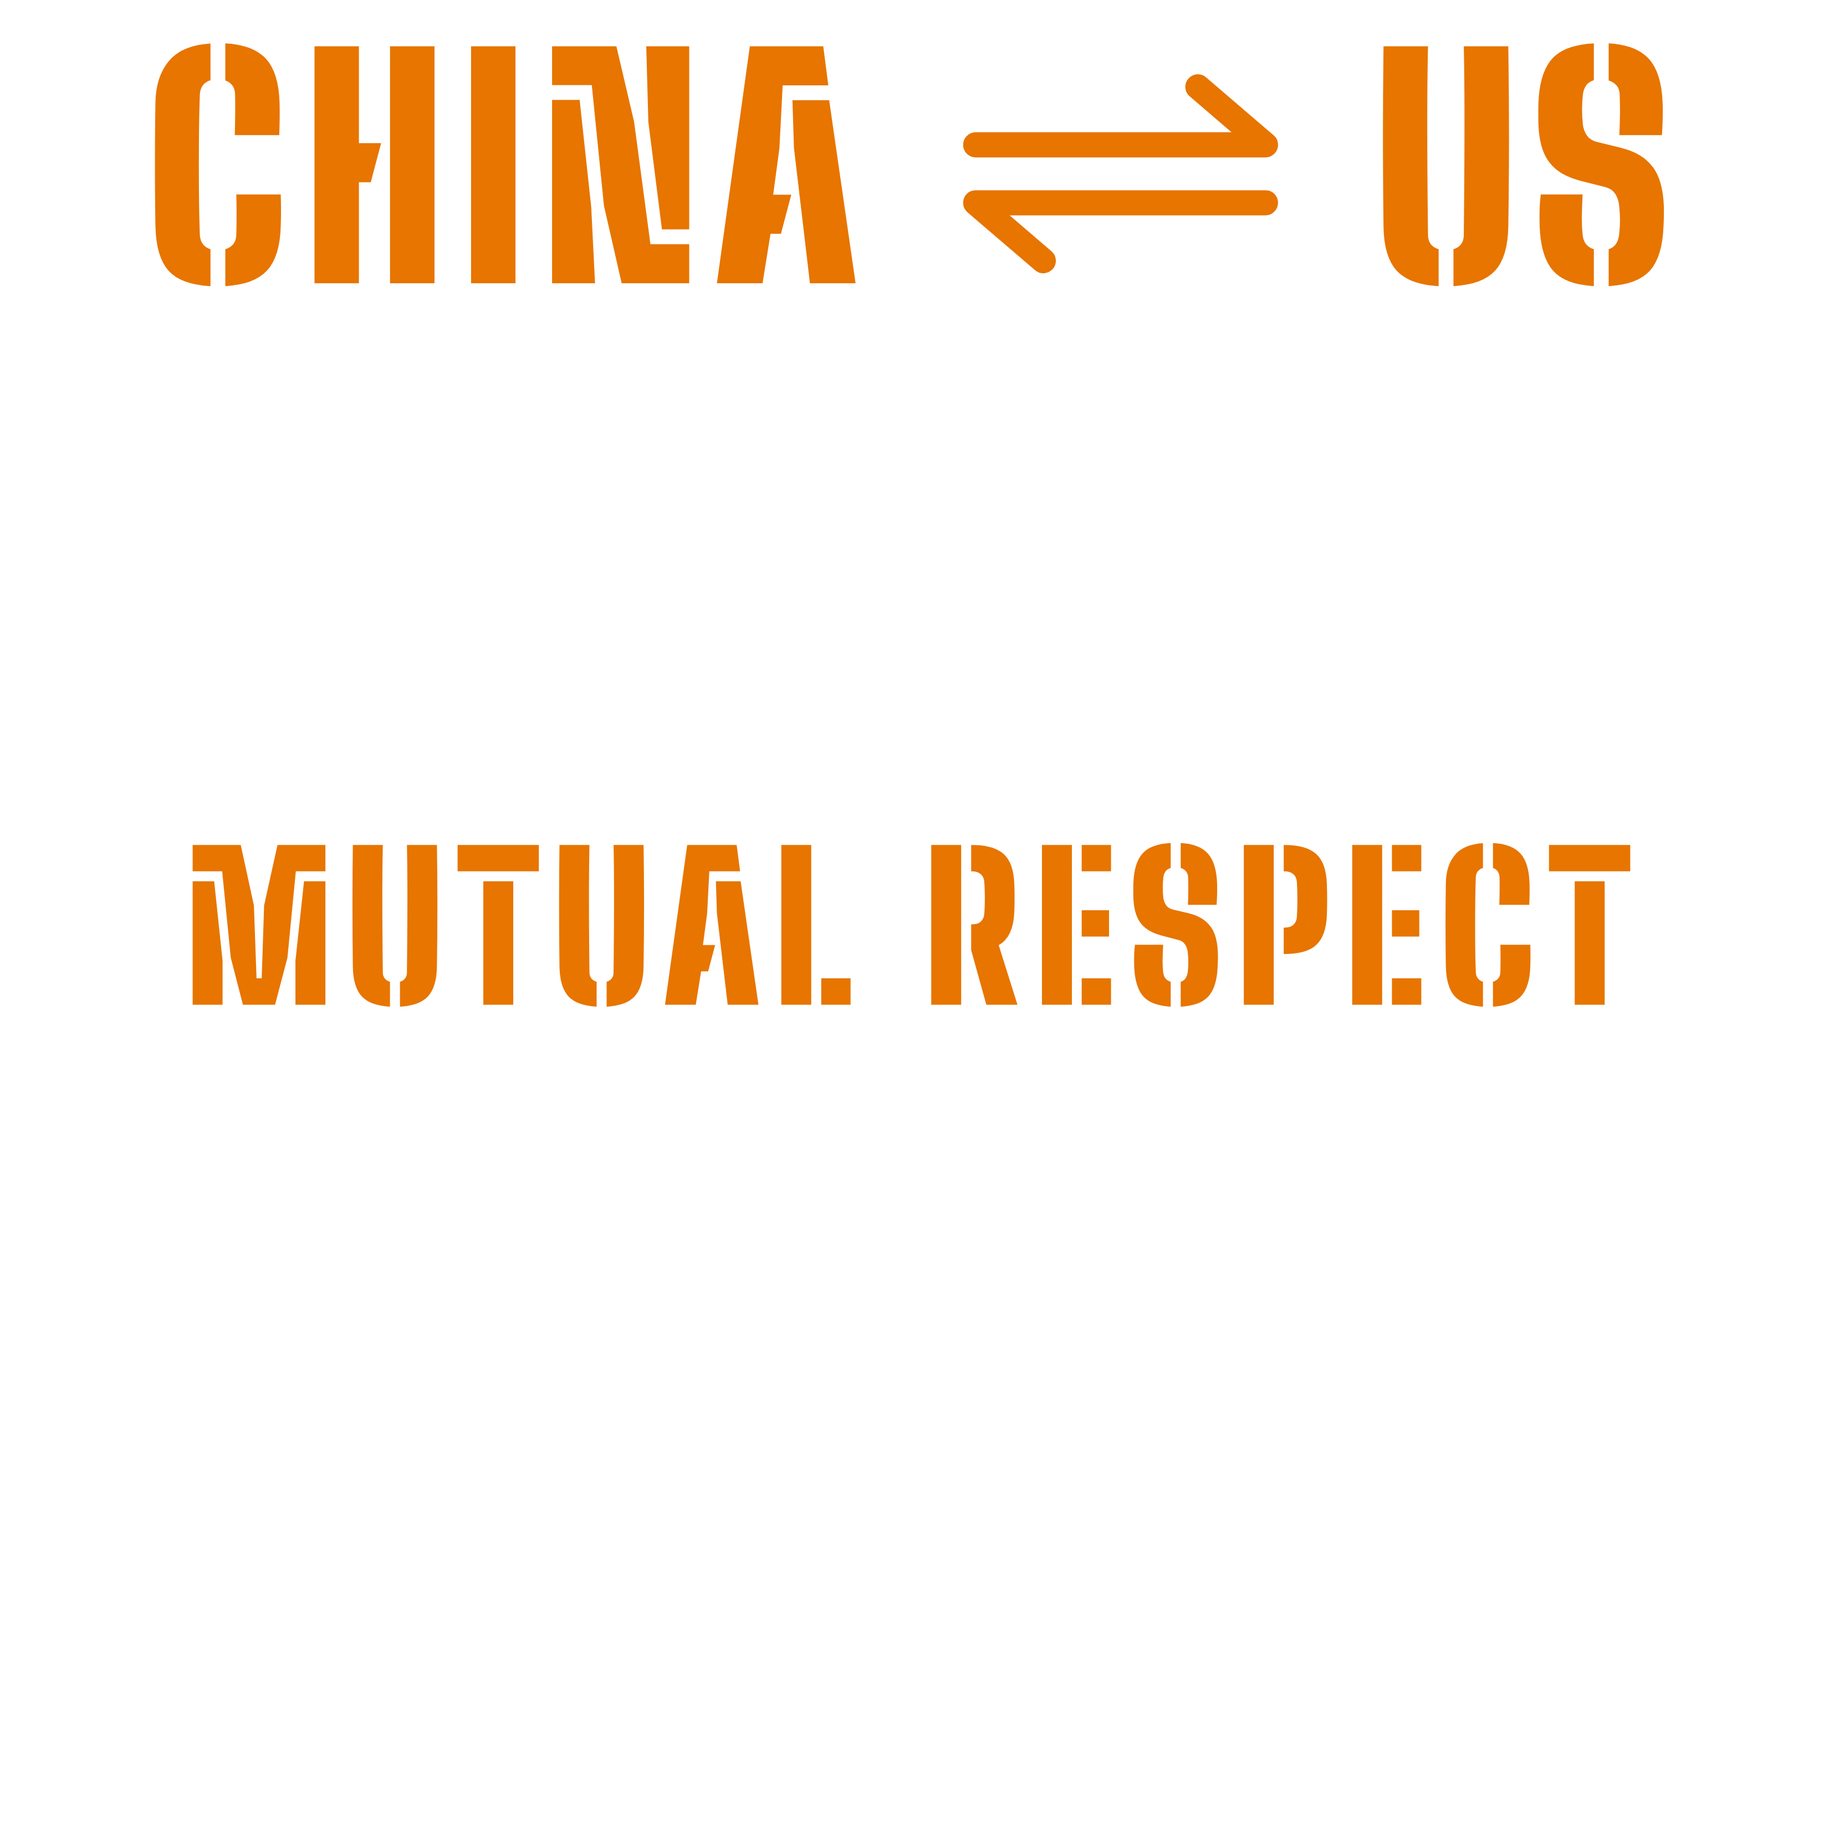
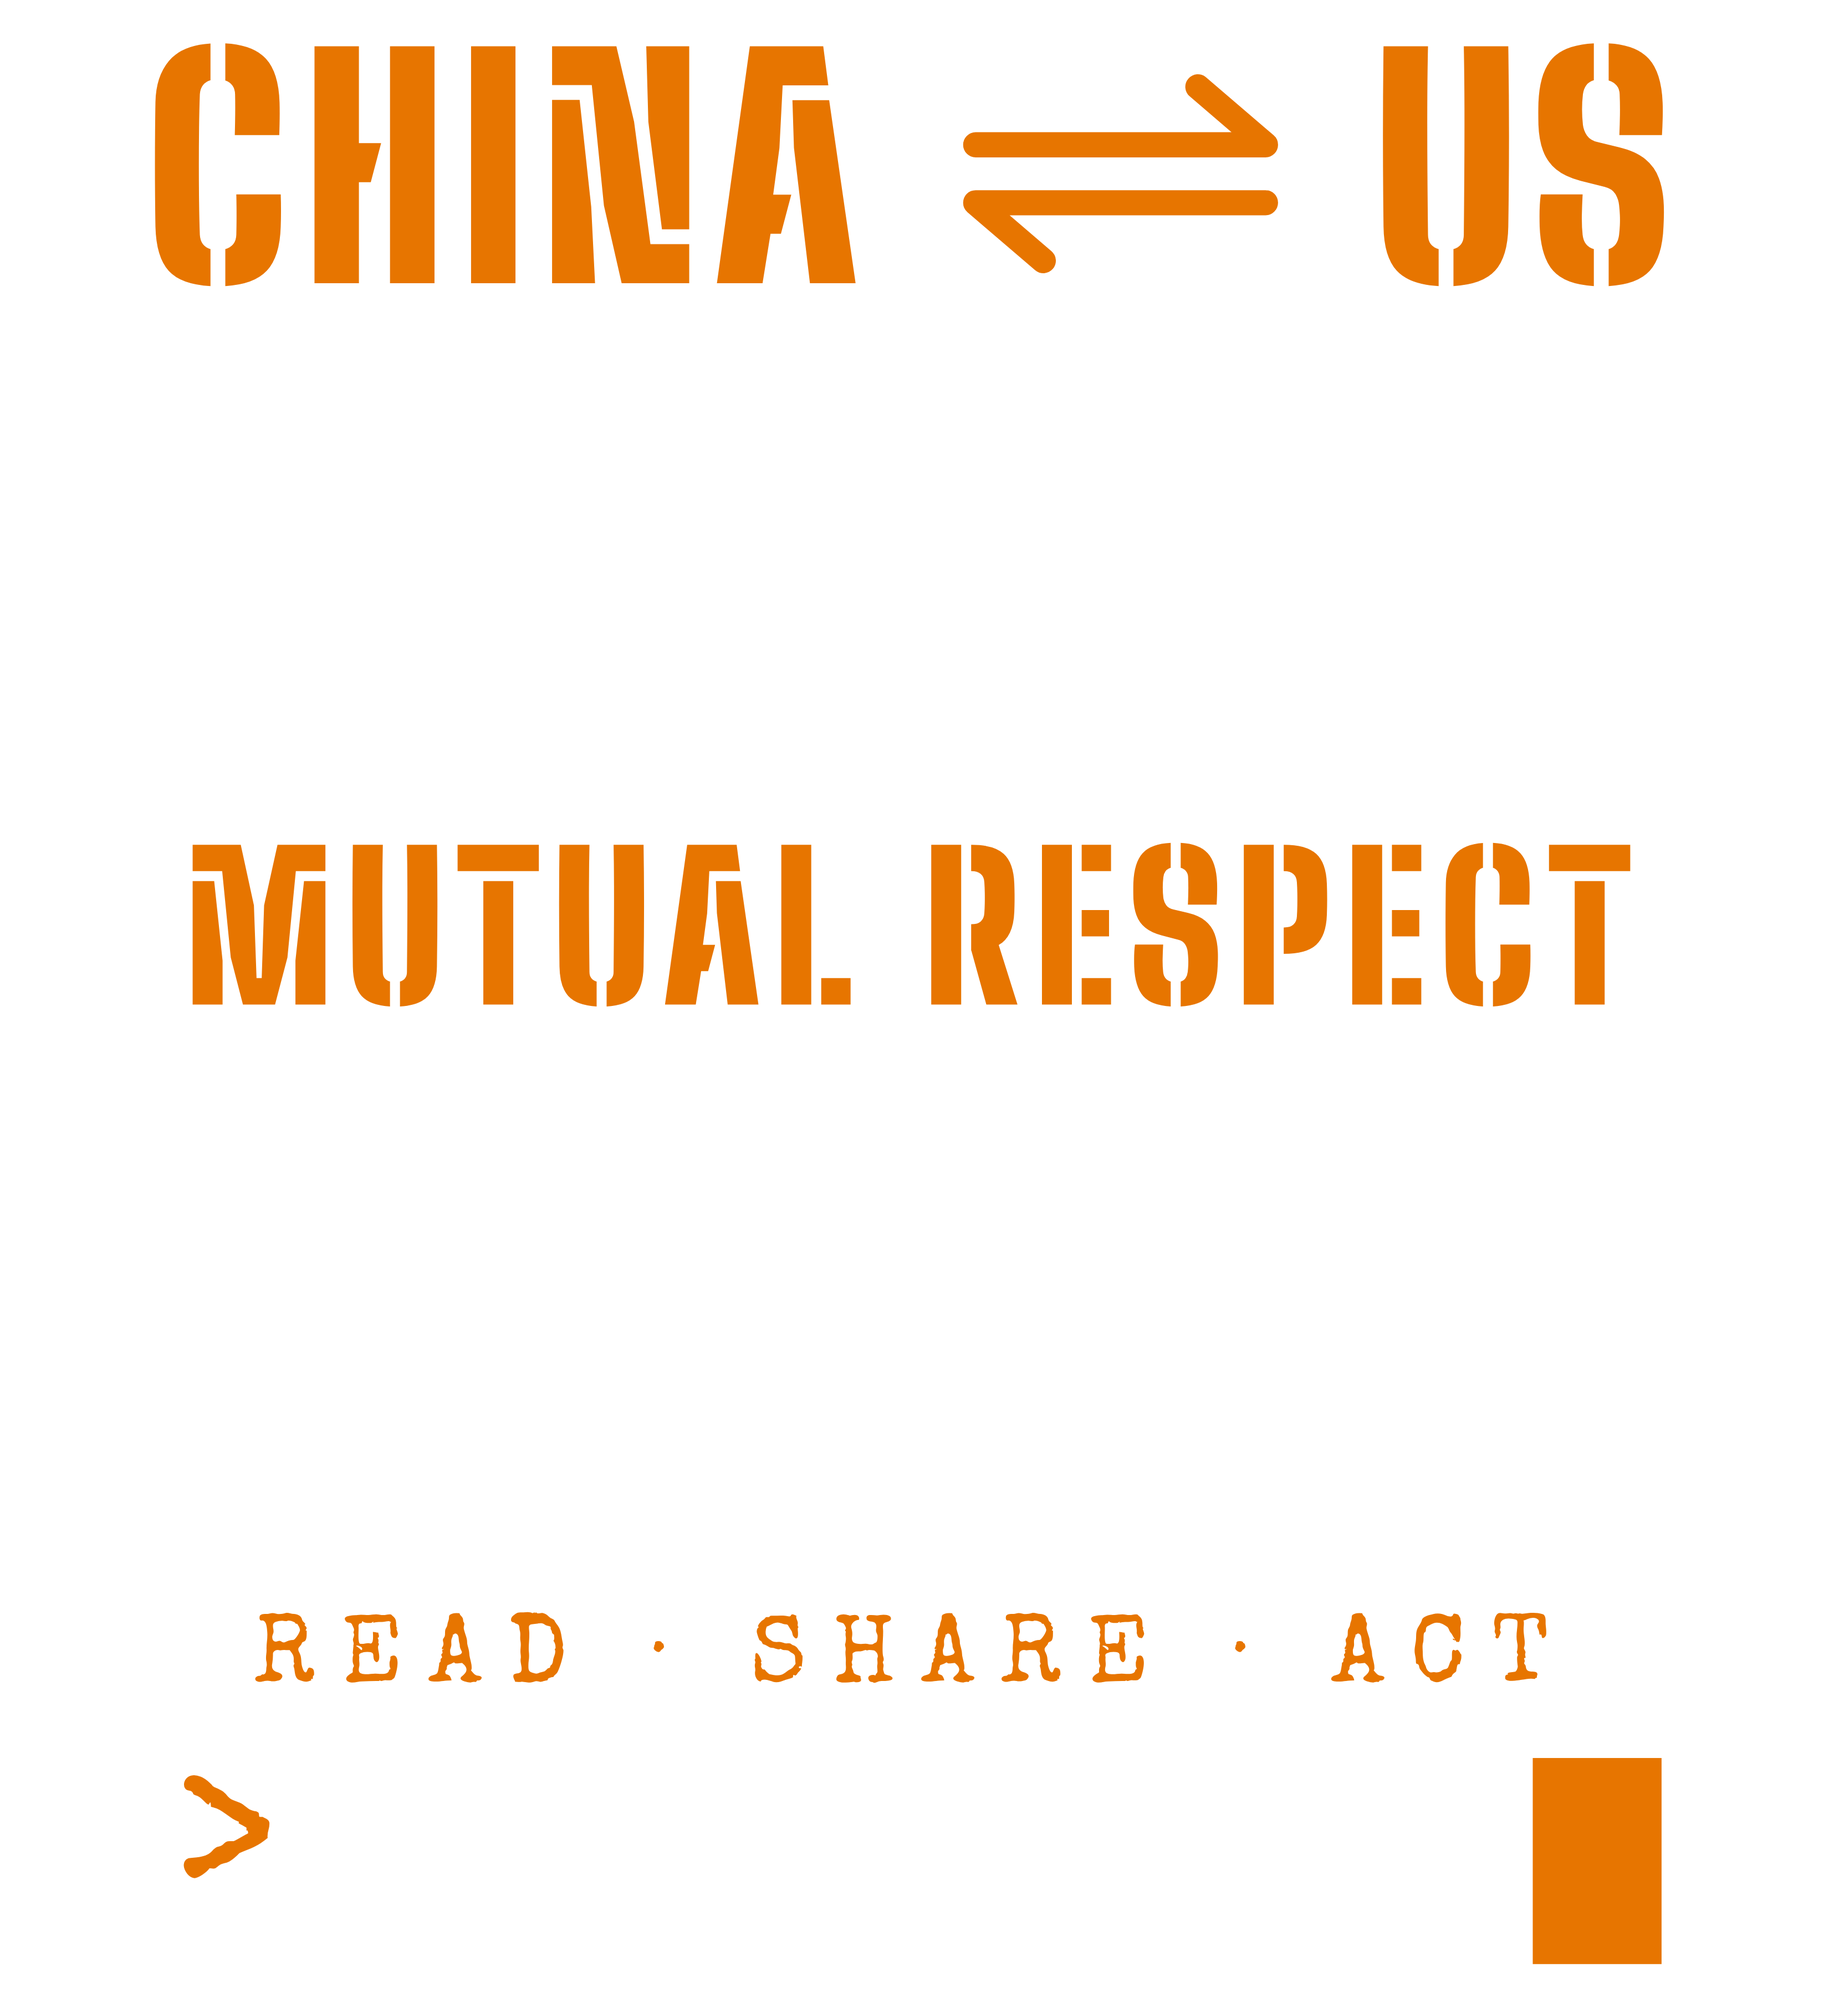
Shirt back: typewriter pamphlet + terminal treatment for the URL
Claude-Session: https://claude.ai/code/session_01Lg8vxUbiHk6f7FP2Kup6m8

diff --git a/Swag/bonfire/print-source.html b/Swag/bonfire/print-source.html
@@ -1,5 +1,5 @@
 <!doctype html><html><head><meta charset="utf-8">
-<link rel="stylesheet" href="https://fonts.googleapis.com/css2?family=Black+Ops+One&family=Big+Shoulders+Stencil+Display:wght@900&family=Noto+Serif+TC:wght@900&family=VT323&display=block">
+<link rel="stylesheet" href="https://fonts.googleapis.com/css2?family=Black+Ops+One&family=Big+Shoulders+Stencil+Display:wght@900&family=Noto+Serif+TC:wght@900&family=VT323&family=Special+Elite&display=block">
 <style>
 body{margin:0;background:transparent}
 .art{display:inline-flex;flex-direction:column;align-items:center;text-align:center;padding:4px}
@@ -22,7 +22,10 @@ body{margin:0;background:transparent}
   <div class="bs o" style="font-size:31px">MUTUAL RESPECT</div>
   <div style="display:flex;flex-direction:column;align-items:center;gap:8px;margin-top:28px">
     <div class="bs w" style="font-size:42px;letter-spacing:1.5px">WE ARE EVA</div>
-    <div style="font-family:VT323;font-size:33px;line-height:1;color:#fff;white-space:nowrap">URL:evaxie.us</div>
+    <div style="display:flex;flex-direction:column;align-items:center;gap:6px;margin-top:2px">
+      <div style="font-family:'Special Elite';font-size:15px;letter-spacing:4px;color:#E77500;white-space:nowrap">READ · SHARE · ACT</div>
+      <div style="display:flex;align-items:center;font-family:'Special Elite';font-size:36px;line-height:1;white-space:nowrap"><span style="color:#E77500;margin-right:.3em">&gt;</span><span class="worn" style="color:#fff">evaxie.us</span><span style="display:inline-block;width:.55em;height:.9em;background:#E77500;margin-left:.12em"></span></div>
+    </div>
   </div>
 </div>
 </body></html>

diff --git a/Swag/README.md b/Swag/README.md
@@ -8,12 +8,13 @@ Upload files for the rally shirt, made to Bonfire's artwork guidance (PNG, trans
 | File | Size | Prints at |
 | --- | --- | --- |
 | `bonfire/bonfire-front.png` | 3312 x 2912 px | about 11 x 9.7 in, chest |
-| `bonfire/bonfire-back.png` | 3300 x 3312 px | about 11 x 11 in, upper back |
+| `bonfire/bonfire-back.png` | 3300 x 3614 px | about 11 x 12 in, upper back |
 
 - Shirt color: black. Inks: orange #E77500 and white.
 - Front has a Fountain of Freedom icon (Scudder Plaza, where the rally is held) above 釋放謝翌; the icon alone is `bonfire/fountain-of-freedom-icon.svg`.
 - The Princeton shield and fountain icons from the rally shirt are left off, because the university's
   marks can't be sold on merchandise without a license.
+- Back URL line: "READ · SHARE · ACT" over `> evaxie.us` with a cursor block, in the Special Elite typewriter font (other options in `bonfire/url-options.png`).
 - `bonfire/shirt-mockup.png` is the front and back preview used on the site's Shop page.
 - `bonfire/print-source.html` + `bonfire/render.js` regenerate the files (`node render.js`).
 
